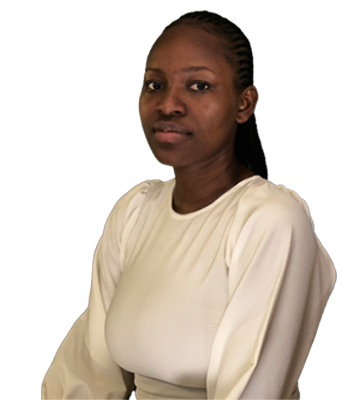
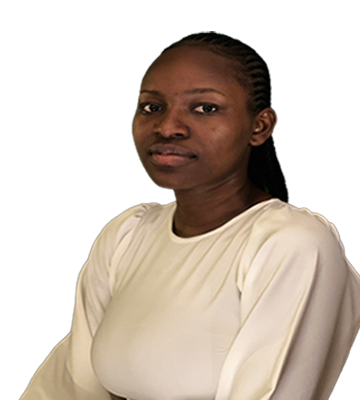
Saved

diff --git a/src/layout/HomeLayout/Hero3/index.js b/src/layout/HomeLayout/Hero3/index.js
@@ -90,21 +90,22 @@ const Index = ()=>{
            <div className='cardHero'>
                <div className='heroCard'>
                         <div className='jupitIco'>
-                            Jupit ICO:
+                            {/* Jupit ICO: */}
+                            Something Awesome Is In The Work
                         </div>
                         <div className='discount'>
-                            Discount 33% from final price
+                            {/* Discount 33% from final price */}
                         </div>
                         
                         <div className='heroFlex'>
-                        <div className='counter'>
+                        {/* <div className='counter'>
                                 <div className='rulerI'>
                                     <BiCheckCircle size={15} color="green" /><span>900K</span>
                                 </div>
                                 <div className='rulerII'>
                                     <BiCheckCircle size={15} color="green" /><span>5M</span>
                                 </div>
-                            </div>
+                            </div> */}
                             <div className='fixedprogressbar'>
                                     
                                      <ProgressBar animated now={75}  variant='#1c1c93' style={{height:50,backgroundColor:'transparent'}}/>
@@ -126,16 +127,20 @@ const Index = ()=>{
                                     
                             </div> */}
                             <div className='fixedtoken'>
-                                Fixed token edition 3,000.000BITS
+                                {/* Fixed token edition 3,000.000BITS */}
+                                Our exchange infrastructure is still under development. <br/><br/>
+                                For business and enquiries, please reach out to us through the WhatsApp or Instagram link below.
                                 
                             </div>
-                            <div className='token'>
+                            {/* <div className='token'>
                                     Buy Token
-                            </div>
-                            <div className='mastercard'>
+                                    
+                            </div> */}
+                            {/* <div className='mastercard'>
+                            
                                     <FaCcVisa size={25} color="#9da8b6"/><FaCcMastercard size={25} color="#9da8b6"/><BsPaypal size={25} color="#9da8b6" />
 
-                            </div>
+                            </div> */}
                         </div>
                         
                         {/* <div class="demo-container">

diff --git a/src/layout/HomeLayout/Ourteam/index.js b/src/layout/HomeLayout/Ourteam/index.js
@@ -5,6 +5,7 @@ import CTO from '../../../assets/images/team/DEV.png'
 import CTOII from '../../../assets/images/team/DEV2.png'
 import CCO from '../../../assets/images/team/SM.png'
 import CCOII from '../../../assets/images/team/SM2.png'
+import LEKAN from '../../../assets/images/team/lekan.png'
 const Index = ()=>{
     return(
         <div className="ourteam" id="ourteam">
@@ -29,8 +30,8 @@ const Index = ()=>{
                     <div className='TeamMember'>
                         <div>OLALEKAN AKINOLA</div>
                         <div>Brand Strategist</div>
-                        <img src={AMD} className="show" />
-                        <img src={CTO} className="onHover" />
+                        <img src={LEKAN} className="show" />
+                        <img src={LEKAN} className="onHover" />
 
                     </div>
                 </div>

diff --git a/src/assets/css/newHero/hero.css b/src/assets/css/newHero/hero.css
@@ -167,11 +167,17 @@
 
 .heroCard{
   width:70%;
-  height:400px;
+  height:350px;
   border-radius: 20px;
   background-color: #fff;
   padding: 20px;
   text-align: center;
+  display: flex;
+  flex-direction: column;
+  align-items: center;
+  justify-content: center;
+
+
 }
 .jupitIco{
   color: #343434;
